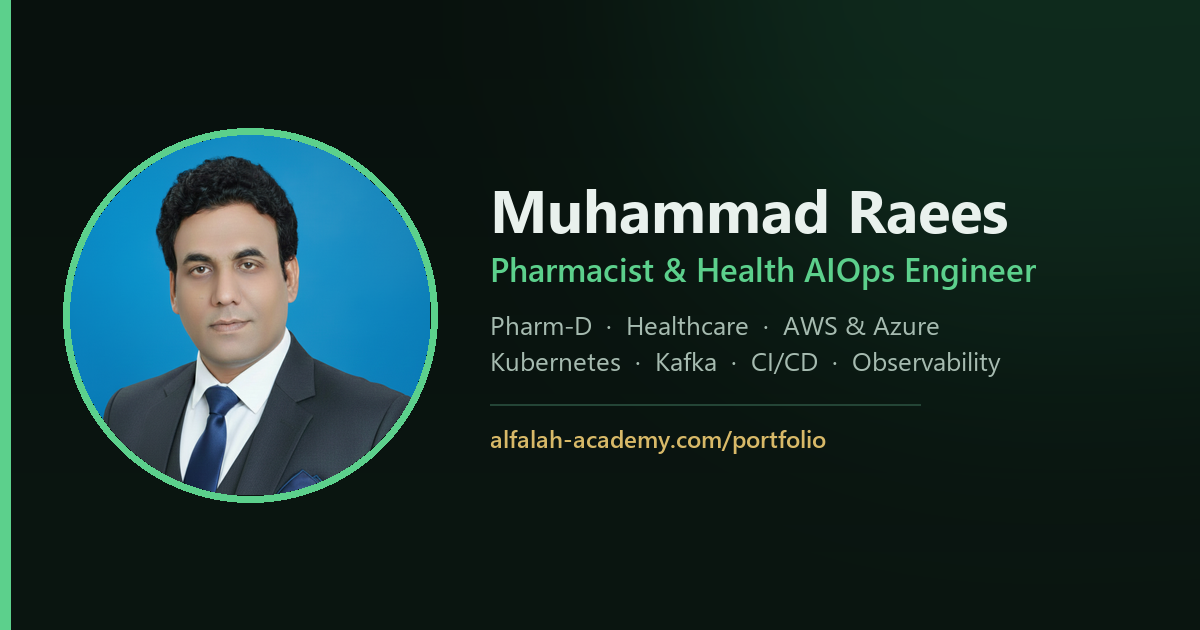
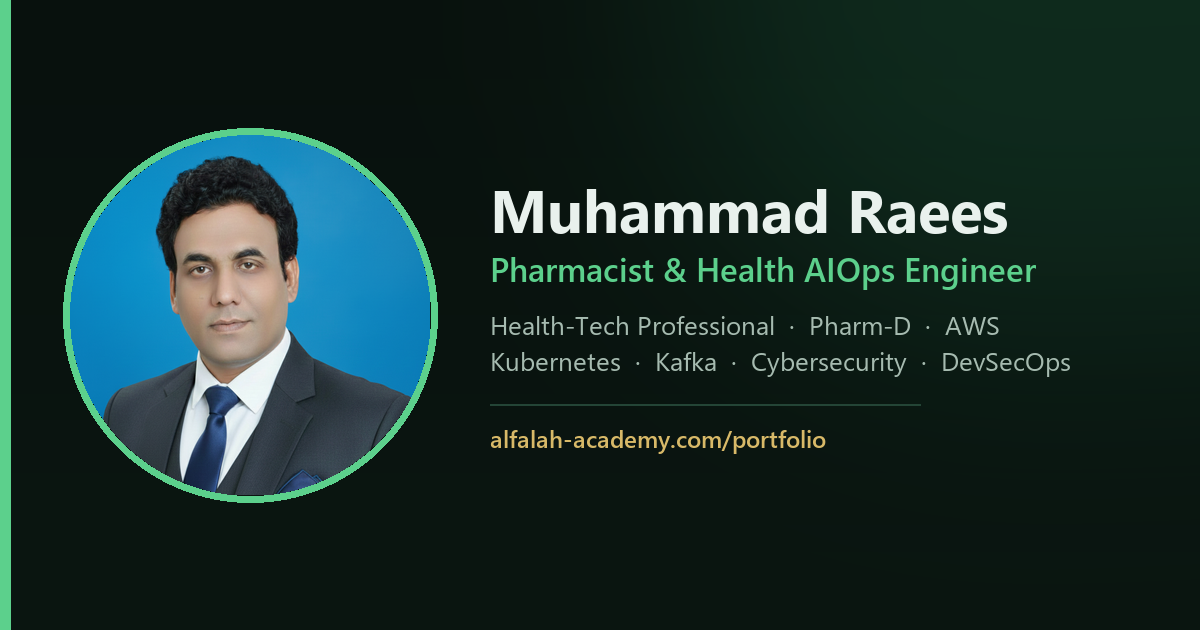
Refine portfolio tagline: cybersecurity/DevSecOps and health-tech professional
- Replace observability with cybersecurity & DevSecOps in hero, card and meta
- Add Health-Tech Professional to the role line

Changed region(s): [[0.4008, 0.4825, 0.8942, 0.6032]]

diff --git a/portfolio/index.html b/portfolio/index.html
@@ -4,14 +4,14 @@
 <meta charset="UTF-8">
 <meta name="viewport" content="width=device-width, initial-scale=1.0">
 <title>Muhammad Raees · Pharmacist & Health AIOps Engineer</title>
-<meta name="description" content="Muhammad Raees - Pharmacist (Pharm-D) and Health AIOps / MLOps / DevOps engineer. Real-time healthcare AIOps platforms on AWS & Azure with Kubernetes, Kafka, CI/CD, Terraform, and full observability. EduQual Level 6 Diploma in AI Operations.">
+<meta name="description" content="Muhammad Raees - Pharmacist (Pharm-D), health-tech professional and Health AIOps / MLOps / DevOps engineer. Real-time healthcare AIOps platforms on AWS & Azure with Kubernetes, Kafka, CI/CD, Terraform, cybersecurity and DevSecOps. EduQual Level 6 Diploma in AI Operations.">
 <meta name="author" content="Muhammad Raees">
 <meta name="theme-color" content="#1a4030">
 <link rel="canonical" href="https://alfalah-academy.com/portfolio/">
 
 <meta property="og:type" content="website">
 <meta property="og:title" content="Muhammad Raees · Pharmacist & Health AIOps Engineer">
-<meta property="og:description" content="Pharmacist (Pharm-D) and Health AIOps engineer building real-time healthcare platforms on AWS & Azure with Kubernetes, Kafka, CI/CD and full observability.">
+<meta property="og:description" content="Pharmacist (Pharm-D) and Health AIOps engineer building real-time healthcare platforms on AWS & Azure with Kubernetes, Kafka, CI/CD, cybersecurity and DevSecOps.">
 <meta property="og:url" content="https://alfalah-academy.com/portfolio/">
 <meta property="og:image" content="https://alfalah-academy.com/portfolio/og-portfolio.png">
 <meta property="og:image:width" content="1200">
@@ -20,7 +20,7 @@
 <meta name="twitter:card" content="summary_large_image">
 <meta name="twitter:image" content="https://alfalah-academy.com/portfolio/og-portfolio.png">
 <meta name="twitter:title" content="Muhammad Raees · Pharmacist & Health AIOps Engineer">
-<meta name="twitter:description" content="Pharmacist (Pharm-D) and Health AIOps engineer building real-time healthcare platforms on AWS & Azure with Kubernetes, Kafka, CI/CD and full observability.">
+<meta name="twitter:description" content="Pharmacist (Pharm-D) and Health AIOps engineer building real-time healthcare platforms on AWS & Azure with Kubernetes, Kafka, CI/CD, cybersecurity and DevSecOps.">
 
 <link rel="icon" type="image/svg+xml" href="favicon.svg">
 <link rel="icon" type="image/png" href="../assets/favicon.png">
@@ -85,12 +85,12 @@
   <section class="hero" id="top">
     <div class="wrap hero-grid">
       <div class="hero-copy">
-      <p class="eyebrow">Pharmacist (Pharm-D) · Health AIOps / MLOps Engineer</p>
+      <p class="eyebrow">Pharmacist (Pharm-D) · Health AIOps Engineer · Health-Tech Professional</p>
       <h1>Muhammad Raees</h1>
       <p class="hero-sub">
         I build <strong>real-time, cloud-native platforms</strong> on AWS and Azure - 
         event-driven pipelines, machine-learning services, and secure CI/CD - with
-        <strong>Kubernetes, Kafka, Terraform</strong> and full observability. A
+        <strong>Kubernetes, Kafka, Terraform</strong> and DevSecOps cybersecurity. A
         <strong>Doctor of Pharmacy (Pharm-D)</strong> turned Health AIOps engineer — I bring clinical
         insight to healthcare operations where patient safety meets cloud reliability.
       </p>
